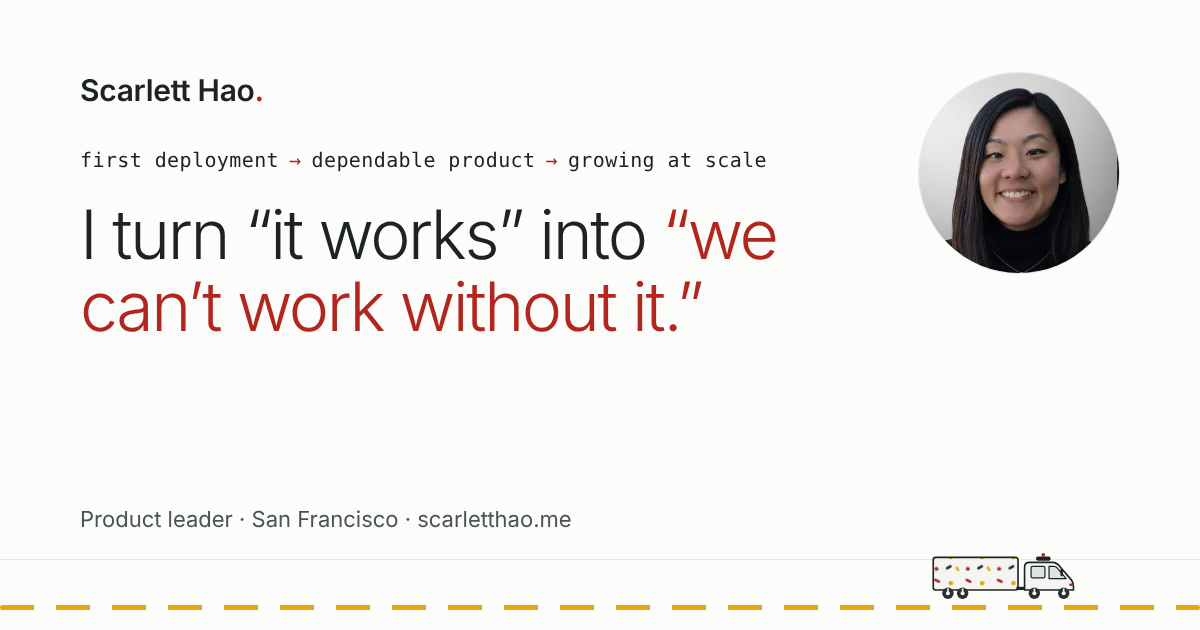
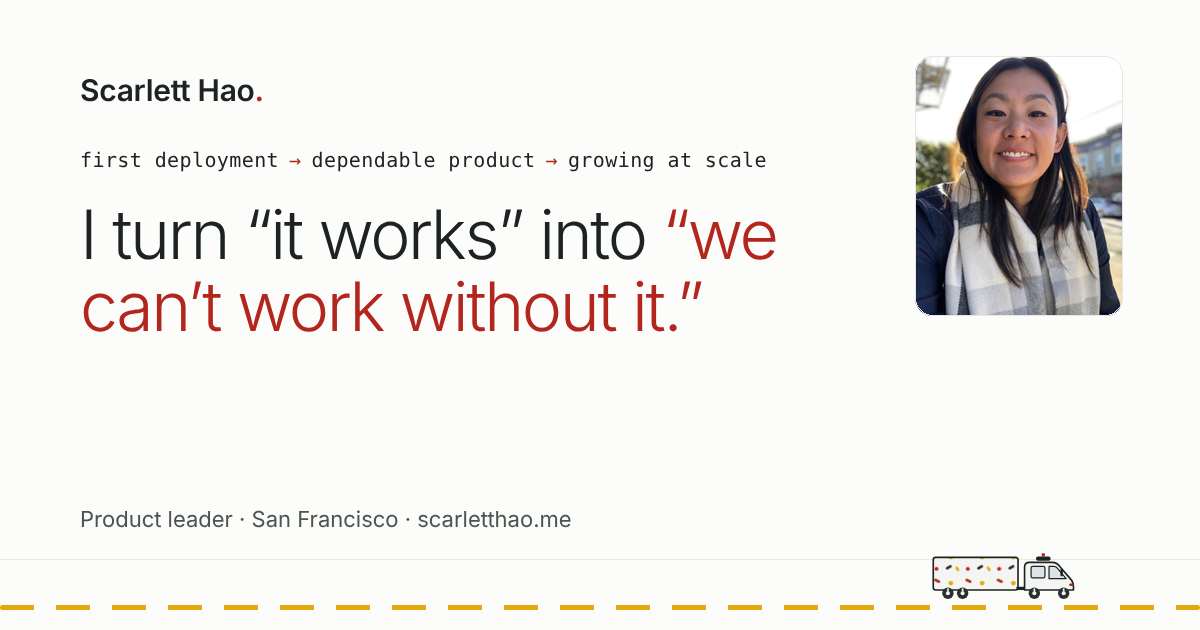
Help search engines find the site by name
Claude-Session: https://claude.ai/code/session_013B22z5hDAATE1cV1EmnG2k

Changed region(s): [[0.74, 0.0905, 0.9558, 0.5127]]

diff --git a/index.html b/index.html
@@ -7,22 +7,49 @@
 <meta property="og:title" content="Scarlett Hao">
 <meta property="og:description" content="Product leader. I turn “it works” into “we can’t work without it”: consumer product thinking, applied to physical AI.">
 <meta property="og:url" content="https://www.scarletthao.me/">
-<meta property="og:image" content="https://www.scarletthao.me/assets/images/og-image.png">
+<meta property="og:image" content="https://www.scarletthao.me/assets/images/og-image.png?v=2">
 <meta property="og:image:width" content="1200">
 <meta property="og:image:height" content="630">
 <meta property="og:image:alt" content="Scarlett Hao: I turn “it works” into “we can’t work without it.”">
 <meta property="og:type" content="website">
 <meta name="twitter:card" content="summary_large_image">
-<meta name="twitter:image" content="https://www.scarletthao.me/assets/images/og-image.png">
-<title>Scarlett Hao</title>
+<meta name="twitter:image" content="https://www.scarletthao.me/assets/images/og-image.png?v=2">
+<title>Scarlett Hao · Product leader, consumer to physical AI</title>
 <link rel="canonical" href="https://www.scarletthao.me/">
+<script type="application/ld+json">
+{
+  "@context": "https://schema.org",
+  "@type": "Person",
+  "name": "Scarlett Hao",
+  "url": "https://www.scarletthao.me/",
+  "image": "https://www.scarletthao.me/assets/images/headshot.jpg",
+  "jobTitle": "Product leader",
+  "description": "Product leader who brings consumer product thinking to physical AI.",
+  "address": {
+    "@type": "PostalAddress",
+    "addressLocality": "San Francisco",
+    "addressRegion": "CA",
+    "addressCountry": "US"
+  },
+  "alumniOf": {
+    "@type": "CollegeOrUniversity",
+    "name": "Tufts University"
+  },
+  "sameAs": [
+    "https://www.linkedin.com/in/shao1",
+    "https://scarletthao1.substack.com/",
+    "https://github.com/maoshaoo"
+  ]
+}
+</script>
+
 <link rel="preconnect" href="https://fonts.googleapis.com">
 <link rel="preconnect" href="https://fonts.gstatic.com" crossorigin>
 <link rel="stylesheet" href="https://fonts.googleapis.com/css2?family=Bricolage+Grotesque:opsz,wght@12..96,300;12..96,400;12..96,500&family=Hanken+Grotesk:wght@300;400;500&family=JetBrains+Mono:wght@400&display=swap">
 
 <script>try{var t=localStorage.getItem("theme");if(t==="light"||t==="dark")document.documentElement.setAttribute("data-theme",t);var m=/[?&]me(=off)?(&|$)/.exec(location.search);if(m){if(m[1])localStorage.removeItem("umami.disabled");else localStorage.setItem("umami.disabled","1")}}catch(e){}</script>
 <link rel="stylesheet" href="assets/css/base.css?v=7">
-<link rel="stylesheet" href="assets/css/home.css?v=6">
+<link rel="stylesheet" href="assets/css/home.css?v=7">
 <script defer src="https://cloud.umami.is/script.js" data-website-id="b8b771e2-e860-4c8b-abf7-f1401ec97996"></script>
 <link rel="icon" href="favicon.svg" type="image/svg+xml">
 <link rel="icon" href="favicon-32.png" type="image/png" sizes="32x32">
@@ -51,7 +78,7 @@
 <main id="top">
   <section class="hero">
     <div class="wrap">
-      <h1>I turn &ldquo;it works&rdquo; into <em>&ldquo;we can&rsquo;t work without it.&rdquo;</em></h1>
+      <p class="hero-title">I turn &ldquo;it works&rdquo; into <em>&ldquo;we can&rsquo;t work without it.&rdquo;</em></p>
       <p class="arc"><span>first deployment</span><i>&rarr;</i><span>dependable product</span><i>&rarr;</i><span>growing at scale</span></p>
     </div>
   </section>
@@ -60,7 +87,7 @@
     <div class="wrap">
       <img class="headshot" src="assets/images/headshot.jpg?v=2" alt="Scarlett Hao, smiling, in a plaid scarf on a sunny San Francisco street" width="720" height="900">
       <div class="intro-text">
-        <h2>Hi, I&rsquo;m Scarlett.</h2>
+        <h1>Hi, I&rsquo;m Scarlett.</h1>
         <p class="who">I&rsquo;m a product leader who likes to go where the hard problems and the good people are.</p>
       </div>
     </div>

diff --git a/changelog.html b/changelog.html
@@ -8,7 +8,7 @@
 <meta name="description" content="What's new on scarletthao.me.">
 <meta property="og:title" content="Changelog · Scarlett Hao">
 <meta property="og:description" content="What's new on scarletthao.me.">
-<meta property="og:image" content="https://www.scarletthao.me/assets/images/og-image.png">
+<meta property="og:image" content="https://www.scarletthao.me/assets/images/og-image.png?v=2">
 <meta name="twitter:card" content="summary_large_image">
 <link rel="preconnect" href="https://fonts.googleapis.com">
 <link rel="preconnect" href="https://fonts.gstatic.com" crossorigin>
@@ -48,6 +48,7 @@
     <div class="legend" role="group" aria-label="Filter by tag"><button type="button" class="flt" data-tag="new" aria-pressed="false"><span class="tag tag-new">New</span>new sections and content</button><button type="button" class="flt" data-tag="fun" aria-pressed="false"><span class="tag tag-fun">Fun</span>personality and whimsy</button><button type="button" class="flt" data-tag="func" aria-pressed="false"><span class="tag tag-func">Functionality</span>how the site works</button></div>
     <p class="flt-status" id="flt-status" role="status" hidden><span></span> <button type="button" id="flt-all">Show all</button></p>
 
+    <article class="entry"><div class="date">2026-11-12</div><div><h2>Easier to find <span class="tag tag-func">Functionality</span></h2><ul><li>Search engines now get a clear profile of who I am, with links to my LinkedIn, Substack and GitHub, so searching my name finds this site.</li><li>A clearer page title, and “Hi, I’m Scarlett” is now the page’s main heading.</li><li>The preview card for sharing the site has the new photo.</li></ul></div></article>
     <article class="entry"><div class="date">2026-11-12</div><div><h2>A new headshot <span class="tag tag-new">New</span></h2><ul><li>A new, sunnier photo in the intro, shown as a taller portrait instead of a circle.</li></ul></div></article>
     <article class="entry"><div class="date">2026-11-12</div><div><h2>Fun fact of the day <span class="tag tag-fun">Fun</span></h2><ul><li>On days without a holiday, a “Did you know?” fact shows up under the header. Everyone gets the same one, and it changes every day.</li><li>98 facts to start, about animals, food, space, history, places, words and sports, plus a few about Vespas, chips and San Francisco.</li></ul></div></article>
     <article class="entry"><div class="date">2026-11-12</div><div><h2>The first full story: Crossing the Valley of Death <span class="tag tag-new">New</span></h2><ul><li>The Defense Digital Service story now has its own page: how a dual-use drone program went from proof of concept to a dependable product with a long-term home in the U.S. Navy. Find it from the Experience section.</li><li>A new story-page design, before and after, that the Kodiak and direct-to-consumer stories will use too.</li></ul></div></article>

diff --git a/assets/css/home.css b/assets/css/home.css
@@ -1,14 +1,14 @@
 /* Home page: one medium-width column; hero, intro, patterns, experience cards, fit, about, contact. */
 .wrap { max-width: 56rem; margin: 0 auto; padding-left: max(20px, env(safe-area-inset-left, 0px)); padding-right: max(20px, env(safe-area-inset-right, 0px)); }
 .eyebrow { font-family: var(--mono); font-size: .72rem; letter-spacing: .1em; text-transform: uppercase; color: var(--muted); }
-h1, h2, h3 { font-family: var(--display); font-weight: 300; letter-spacing: -.025em; text-wrap: balance; margin: 0; }
+h1, h2, h3, .hero-title { font-family: var(--display); font-weight: 300; letter-spacing: -.025em; text-wrap: balance; margin: 0; }
 section { padding-block: 4.5rem; border-top: 1px solid var(--rule); }
 
 /* hero */
 .hero { border-top: 0; padding-block: 4.5rem 4rem; }
 .hero .wrap { display: grid; gap: 1.5rem; }
-.hero h1 { font-size: clamp(2.2rem, 5.6vw, 4rem); line-height: 1.08; letter-spacing: -.035em; max-width: 18ch; }
-.hero h1 em { font-style: normal; color: var(--scarlet); }
+.hero .hero-title { margin: 0; color: var(--ink); font-size: clamp(2.2rem, 5.6vw, 4rem); line-height: 1.08; letter-spacing: -.035em; max-width: 18ch; }
+.hero .hero-title em { font-style: normal; color: var(--scarlet); }
 .arc { margin: 0; display: flex; flex-wrap: wrap; align-items: baseline; gap: .35rem .75rem; font-family: var(--mono); font-size: .82rem; letter-spacing: .02em; color: var(--ink); }
 .arc i { font-style: normal; color: var(--scarlet); }
 
@@ -16,7 +16,7 @@ section { padding-block: 4.5rem; border-top: 1px solid var(--rule); }
 .intro .wrap { display: grid; grid-template-columns: minmax(0, 11rem) minmax(0, 1fr); gap: 2.5rem; align-items: start; }
 .headshot { aspect-ratio: 4 / 5; width: 100%; height: auto; max-width: 100%; border-radius: 18px; object-fit: cover; object-position: 50% 20%; display: block; border: 1px solid var(--rule); }
 .intro-text { display: grid; gap: 1.1rem; }
-.intro h2 { font-size: clamp(1.6rem, 3.4vw, 2.1rem); line-height: 1.15; }
+.intro h1 { font-size: clamp(1.6rem, 3.4vw, 2.1rem); line-height: 1.15; }
 .intro p { margin: 0; color: var(--soft); font-size: 1.08rem; max-width: 60ch; }
 .intro .who { color: var(--ink); font-family: var(--display); font-weight: 300; font-size: clamp(1.2rem, 2.4vw, 1.4rem); line-height: 1.4; }
 

diff --git a/play/snacky-vespa/index.html b/play/snacky-vespa/index.html
@@ -8,7 +8,7 @@
 <meta property="og:title" content="Snacky Vespa">
 <meta property="og:description" content="Snack first, route second. A San Francisco ride planner that builds a scenic loop around Sunday’s weather and a snack stop.">
 <meta property="og:url" content="https://www.scarletthao.me/play/snacky-vespa/">
-<meta property="og:image" content="https://www.scarletthao.me/assets/images/og-image.png">
+<meta property="og:image" content="https://www.scarletthao.me/assets/images/og-image.png?v=2">
 <meta property="og:type" content="website">
 <meta name="twitter:card" content="summary_large_image">
 <link rel="canonical" href="https://www.scarletthao.me/play/snacky-vespa/">

diff --git a/work/dds/index.html b/work/dds/index.html
@@ -8,7 +8,7 @@
 <meta property="og:title" content="Crossing the Valley of Death · Scarlett Hao">
 <meta property="og:description" content="Taking a dual-use drone program from proof of concept to a long-term home in the U.S. Navy.">
 <meta property="og:url" content="https://www.scarletthao.me/work/dds/">
-<meta property="og:image" content="https://www.scarletthao.me/assets/images/og-image.png">
+<meta property="og:image" content="https://www.scarletthao.me/assets/images/og-image.png?v=2">
 <meta name="twitter:card" content="summary_large_image">
 <link rel="canonical" href="https://www.scarletthao.me/work/dds/">
 <link rel="preconnect" href="https://fonts.googleapis.com">

diff --git a/play/brain-power/index.html b/play/brain-power/index.html
@@ -8,7 +8,7 @@
 <meta property="og:title" content="Brain Power">
 <meta property="og:description" content="Feel smart, or get smart. A trivia board for what you know and what you want to learn.">
 <meta property="og:url" content="https://www.scarletthao.me/play/brain-power/">
-<meta property="og:image" content="https://www.scarletthao.me/assets/images/og-image.png">
+<meta property="og:image" content="https://www.scarletthao.me/assets/images/og-image.png?v=2">
 <meta property="og:type" content="website">
 <meta name="twitter:card" content="summary_large_image">
 <link rel="canonical" href="https://www.scarletthao.me/play/brain-power/">

diff --git a/work/index.html b/work/index.html
@@ -8,7 +8,7 @@
 <meta property="og:title" content="Work · Scarlett Hao">
 <meta property="og:description" content="The full stories are on their way.">
 <meta property="og:url" content="https://www.scarletthao.me/work/">
-<meta property="og:image" content="https://www.scarletthao.me/assets/images/og-image.png">
+<meta property="og:image" content="https://www.scarletthao.me/assets/images/og-image.png?v=2">
 <meta name="twitter:card" content="summary_large_image">
 <link rel="canonical" href="https://www.scarletthao.me/work/">
 <link rel="preconnect" href="https://fonts.googleapis.com">

diff --git a/play/index.html b/play/index.html
@@ -8,7 +8,7 @@
 <meta property="og:title" content="Play · Scarlett Hao">
 <meta property="og:description" content="Small things I build for fun.">
 <meta property="og:url" content="https://www.scarletthao.me/play/">
-<meta property="og:image" content="https://www.scarletthao.me/assets/images/og-image.png">
+<meta property="og:image" content="https://www.scarletthao.me/assets/images/og-image.png?v=2">
 <meta name="twitter:card" content="summary_large_image">
 <link rel="canonical" href="https://www.scarletthao.me/play/">
 <link rel="preconnect" href="https://fonts.googleapis.com">
